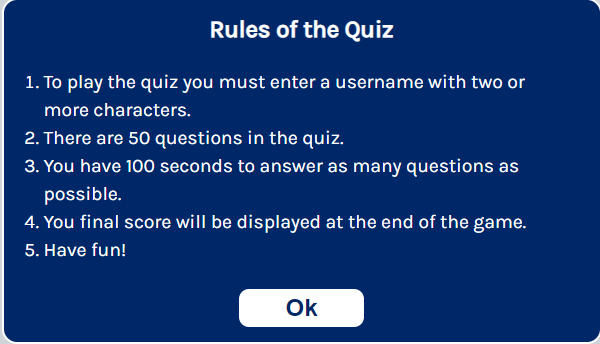
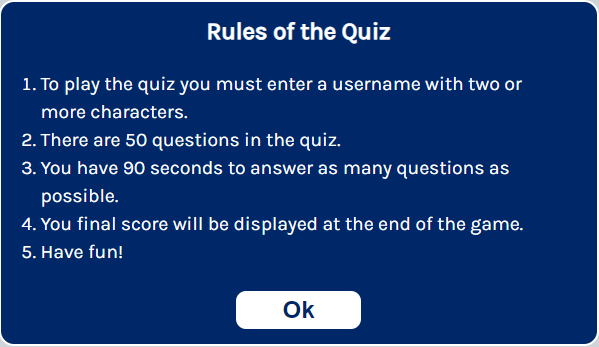
Update features section and minor formatting changes in README file

diff --git a/index.html b/index.html
@@ -64,7 +64,7 @@
       <ol>
         <li>To play the quiz you must enter a username with two or more characters.</li>
         <li>There are 50 questions in the quiz.</li>
-        <li>You have 100 seconds to answer as many questions as possible.</li>
+        <li>You have 90 seconds to answer as many questions as possible.</li>
         <li>You final score will be displayed at the end of the game.</li>
         <li>Have fun!</li>
       </ol>

diff --git a/README.md b/README.md
@@ -2,7 +2,7 @@
 
 <img src="assets/documentation/high-states-quiz-mockup.PNG" alt="Screenshot from http://ami.responsivedesign.is/ website, that show how the website looks on commons screen sizes">
 
-The high states game is a quiz based game that tests the users knowledge of the nicknames of the states of the United States of America. The user enters their username and then clicks on play game. The user has to answer as many questions as possible in 90 seconds. At the end of the game the user is presented with their final score. 
+The high states game is a quiz-based game that tests the user's knowledge of the nicknames of the states of the United States of America. The user enters their username and then clicks on play game. The user must answer as many questions as possible in 90 seconds. At the end of the game the user is presented with their final score. 
 
 -By Eric Blake
 
@@ -18,13 +18,13 @@ The high states game is a quiz based game that tests the users knowledge of the 
 * The font used throughout is Karla.
 
 ### Images
-* The image used on the main page is for decorative purposed only, and is from pexels.com.
+* The image used on the main page is for decorative purposed only. The image is from pexels.com.
 
 
 ### Wireframe
 * The wireframe was created using Mockflow.
  <img src="assets/documentation/high-states-quiz-wireframe-home-page.PNG" alt="Screenshot of Wireframe home page">
-  <img src="assets/documentation/high-states-quiz-wireframe-rules.PNG" alt="Screenshot of Wireframe rules modal">
+ <img src="assets/documentation/high-states-quiz-wireframe-rules.PNG" alt="Screenshot of Wireframe rules modal">
  <img src="assets/documentation/high-states-quiz-wireframe-invalid-username.PNG" alt="Screenshot of Wireframe invalid username warning message">
  <img src="assets/documentation/high-states-quiz-wireframe-quiz-page.PNG" alt="Screenshot of Wireframe quiz page">
  <img src="assets/documentation/high-states-quiz-wireframe-game-over.PNG" alt="Screenshot of Wireframe game over modal">
@@ -33,7 +33,7 @@ The high states game is a quiz based game that tests the users knowledge of the 
 
 ### The welcome page:
 * The landing page includes a header and photograph to allow the user to see the name of the quiz.
-* This section gives the user the instructions for the quiz
+* This section gives the user the instructions for the quiz.
 
 <img src="assets/documentation/high-states-quiz-welcome.PNG" alt="Screenshot of welcome page">
 
@@ -56,14 +56,15 @@ The high states game is a quiz based game that tests the users knowledge of the 
 
 ### Questions and answers box:
 * This section will show the question and four possible answers.
+
 <img src="assets/documentation/high-states-quiz-questions-and-answers.PNG" alt="Screenshot of questions and answers box">
 
 ### Correct answer selected:
-* If the correct answer is selected the button will flash green three times and then remain green
+* If the correct answer is selected the button will flash green three times and then remain green.
 <img src="assets/documentation/high-states-quiz-correct-answer.PNG" alt="Screenshot of Correct answer selected:">
 
 ### Incorrect answer selected:
-* If the incorrect answer is selected the button will turn red and the correct answer will flash green three times
+* If the incorrect answer is selected the button will turn red and the correct answer will flash green three times.
 <img src="assets/documentation/high-states-quiz-incorrect-answer.PNG" alt="Screenshot of incorrect answer selected">
 
 ### Scoreboard:
@@ -72,11 +73,13 @@ The high states game is a quiz based game that tests the users knowledge of the 
 
 ### Countdown timer:
 * The countdown timer starts when the user clicks on play quiz. The first question is presented to the user
-* The timer counts down from 60 seconds, and after 90 seconds the Game-over function is called.
+* The timer counts down from 90 seconds.
 <img src="assets/documentation/high-states-quiz-timer.PNG" alt="Screenshot of countdown timer">
 
 ### Game over modal:
-* After 90 seconds has elapsed, the game is over and the user will be presented with their final score
+* After 90 seconds has elapsed, the game is over, and the user will be presented with a message and their final score.
+* If the user answers eight or more questions correctly the message will be "Congratulations"
+* If the user answers less than eight questions correctly the message will be "Hard luck"
 <img src="assets/documentation/high-states-quiz-game-over.PNG" alt="Screenshot of gameover message">
 
 
